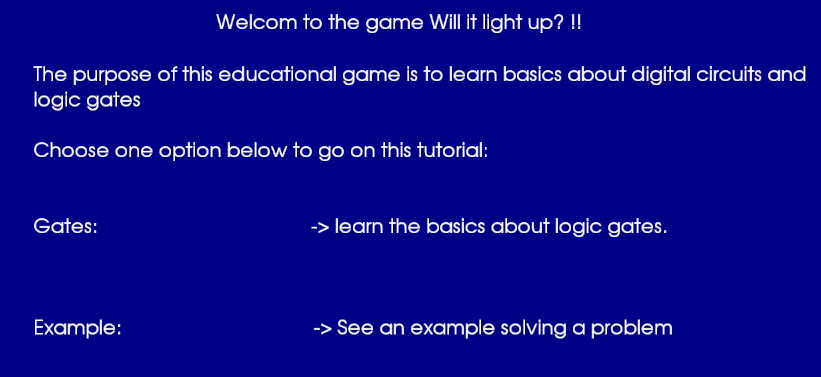
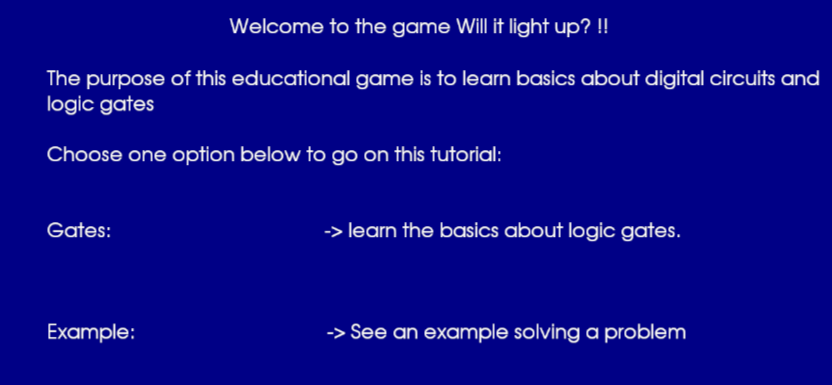
fixing tutorial bugs

diff --git a/Project/tutorial_utils.py b/Project/tutorial_utils.py
@@ -48,7 +48,7 @@ class Tutorial_Manager(Abstract_Manager):
     def run_screen(self,screen):
         screen.fill((0,0,150))
         surface, rect = self.text_objects(self.message_text, self.message_config,(255,255,255))
-        rect.center = (DISPLAY_WIDTH / 2, DISPLAY_HEIGHT * (1 / 4))
+        rect.center = (DISPLAY_WIDTH / 2, DISPLAY_HEIGHT * (1 / 5))
         screen.blit(surface, rect)
         self.check_events(screen)
 
@@ -134,7 +134,7 @@ class Examples_Manager(Abstract_Manager):
 
             screen.blit(self.example_circuits[self.actual_example], (100, 50))
 
-            self.button(screen, 'Menu', 3, 3, (100, 100, 100),(51, 153, 102), BUTTON_WIDTH - 40, BUTTON_HEIGHT - 20 ,0)
+            self.button(screen, 'Menu', 2, 2, (100, 100, 100),(51, 153, 102), BUTTON_WIDTH - 40, BUTTON_HEIGHT - 20 ,0)
 
             if(self.actual_example > 0):
                 self.move_examples(screen, '<', 200, 560, (100,100,100), (51, 153, 102), BUTTON_WIDTH - 100, BUTTON_HEIGHT - 50, -1)
